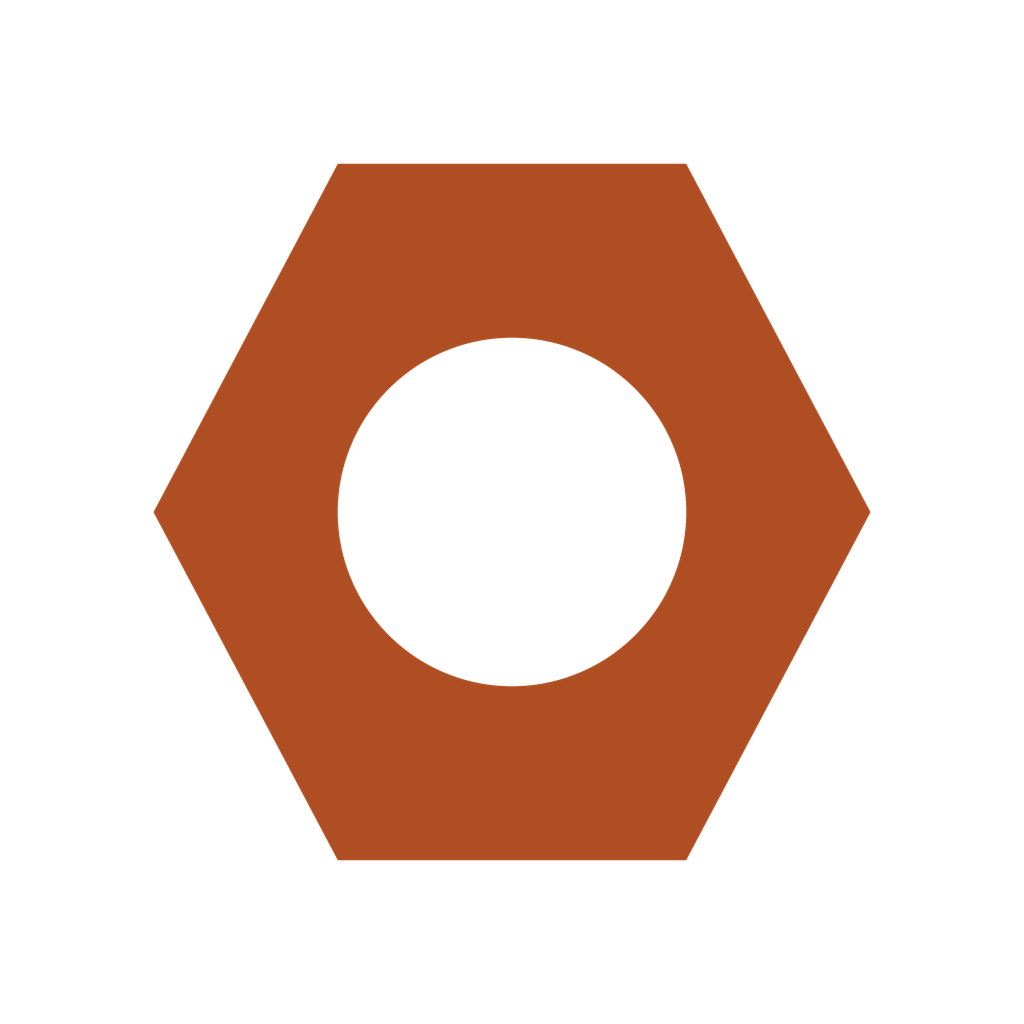
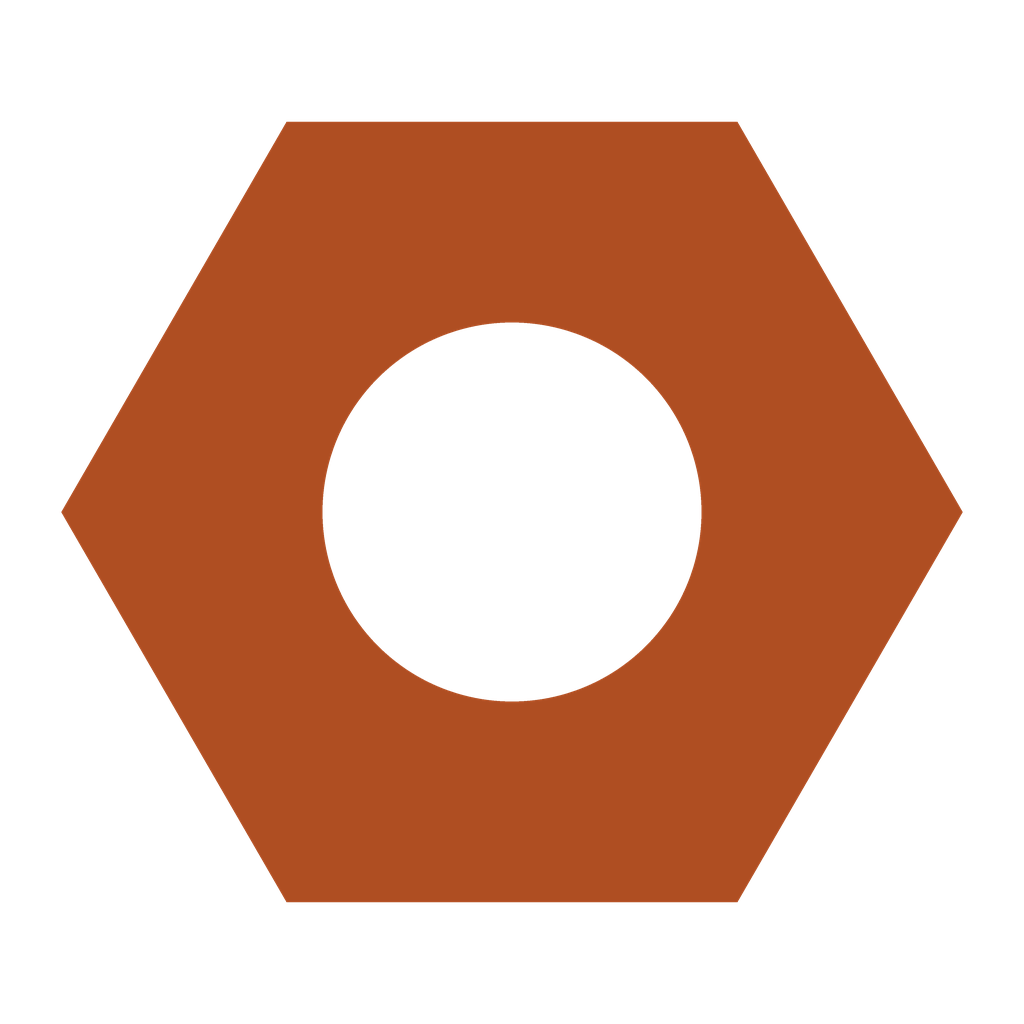
Mudança de logotipo

diff --git a/frontend/src/app/pages/dashboard/dashboard.component.ts b/frontend/src/app/pages/dashboard/dashboard.component.ts
@@ -518,7 +518,7 @@ export class DashboardComponent implements OnInit {
 
   loadDashboardData(): void {
     this.api.getMarketHighlights().subscribe({
-      next: (data) => this.highlights.set(data),
+      next: (data) => this.highlights.set(this.filterVariableIncome(data)),
     });
     this.api.getConsolidatedPortfolio().subscribe({
       next: (summary) => this.portfolio.set(summary),
@@ -558,12 +558,18 @@ export class DashboardComponent implements OnInit {
     this.refreshingAll.set(true);
     this.api.refreshAllStocks().subscribe({
       next: (updated) => {
-        this.highlights.set(updated);
+        this.highlights.set(this.filterVariableIncome(updated));
         this.refreshingAll.set(false);
         this.api.getConsolidatedPortfolio().subscribe((p) => this.portfolio.set(p));
       },
       error: () => this.refreshingAll.set(false),
     });
+  }
+
+  private filterVariableIncome(stocks: StockDetail[]): StockDetail[] {
+    return stocks.filter(
+      (s) => s.tipoAtivo !== 'RENDA_FIXA' && s.setor?.toLowerCase() !== 'renda fixa'
+    );
   }
 
   setSort(field: SortColumn, defaultAsc: boolean): void {

diff --git a/frontend/src/app/pages/auth/register.component.ts b/frontend/src/app/pages/auth/register.component.ts
@@ -20,8 +20,8 @@ import { RegisterRequest } from '../../core/models/scrapinvest.models';
                 <path
                   fill="#AF4E22"
                   fill-rule="evenodd"
-                  d="M 33 16 L 67 16 L 85 50 L 67 84 L 33 84 L 15 50 Z
-                     M 50 33 A 17 17 0 1 0 50 67 A 17 17 0 1 0 50 33 Z"
+                  d="M 28 11.89 L 72 11.89 L 94 50 L 72 88.11 L 28 88.11 L 6 50 Z
+                     M 50 31.5 A 18.5 18.5 0 1 0 50 68.5 A 18.5 18.5 0 1 0 50 31.5 Z"
                 />
               </svg>
             </div>

diff --git a/frontend/src/app/shared/components/navbar/navbar.component.ts b/frontend/src/app/shared/components/navbar/navbar.component.ts
@@ -22,8 +22,8 @@ import { StockDetail } from '../../../core/models/scrapinvest.models';
                 <path
                   fill="#AF4E22"
                   fill-rule="evenodd"
-                  d="M 33 16 L 67 16 L 85 50 L 67 84 L 33 84 L 15 50 Z
-                     M 50 33 A 17 17 0 1 0 50 67 A 17 17 0 1 0 50 33 Z"
+                  d="M 28 11.89 L 72 11.89 L 94 50 L 72 88.11 L 28 88.11 L 6 50 Z
+                     M 50 31.5 A 18.5 18.5 0 1 0 50 68.5 A 18.5 18.5 0 1 0 50 31.5 Z"
                 />
               </svg>
             </div>

diff --git a/frontend/src/app/pages/auth/login.component.ts b/frontend/src/app/pages/auth/login.component.ts
@@ -20,8 +20,8 @@ import { LoginRequest } from '../../core/models/scrapinvest.models';
                 <path
                   fill="#AF4E22"
                   fill-rule="evenodd"
-                  d="M 33 16 L 67 16 L 85 50 L 67 84 L 33 84 L 15 50 Z
-                     M 50 33 A 17 17 0 1 0 50 67 A 17 17 0 1 0 50 33 Z"
+                  d="M 28 11.89 L 72 11.89 L 94 50 L 72 88.11 L 28 88.11 L 6 50 Z
+                     M 50 31.5 A 18.5 18.5 0 1 0 50 68.5 A 18.5 18.5 0 1 0 50 31.5 Z"
                 />
               </svg>
             </div>

diff --git a/backend/src/main/java/com/scrapinvest/service/PortfolioService.java b/backend/src/main/java/com/scrapinvest/service/PortfolioService.java
@@ -136,6 +136,9 @@ public class PortfolioService {
     @Transactional
     public List<StockDetailResponse> listMarketHighlights() {
         List<String> tickers = stockRepository.findAll().stream()
+                .filter(stock -> stock.getTipoAtivo() != AssetType.RENDA_FIXA
+                        && !scraperEngine.isFixedIncome(stock.getTicker())
+                        && !"Renda Fixa".equalsIgnoreCase(stock.getSetor()))
                 .map(Stock::getTicker)
                 .toList();
         List<StockDetailResponse> responses = new ArrayList<>();

diff --git a/backend/src/main/java/com/scrapinvest/service/scraper/ScraperEngine.java b/backend/src/main/java/com/scrapinvest/service/scraper/ScraperEngine.java
@@ -144,6 +144,9 @@ public class ScraperEngine {
     @Transactional
     public List<StockDetailResponse> refreshAllTrackedStocks() {
         List<String> tickers = stockRepository.findAll().stream()
+                .filter(stock -> stock.getTipoAtivo() != AssetType.RENDA_FIXA
+                        && !isFixedIncome(stock.getTicker())
+                        && !"Renda Fixa".equalsIgnoreCase(stock.getSetor()))
                 .map(Stock::getTicker)
                 .toList();
         List<StockDetailResponse> updated = new ArrayList<>();
